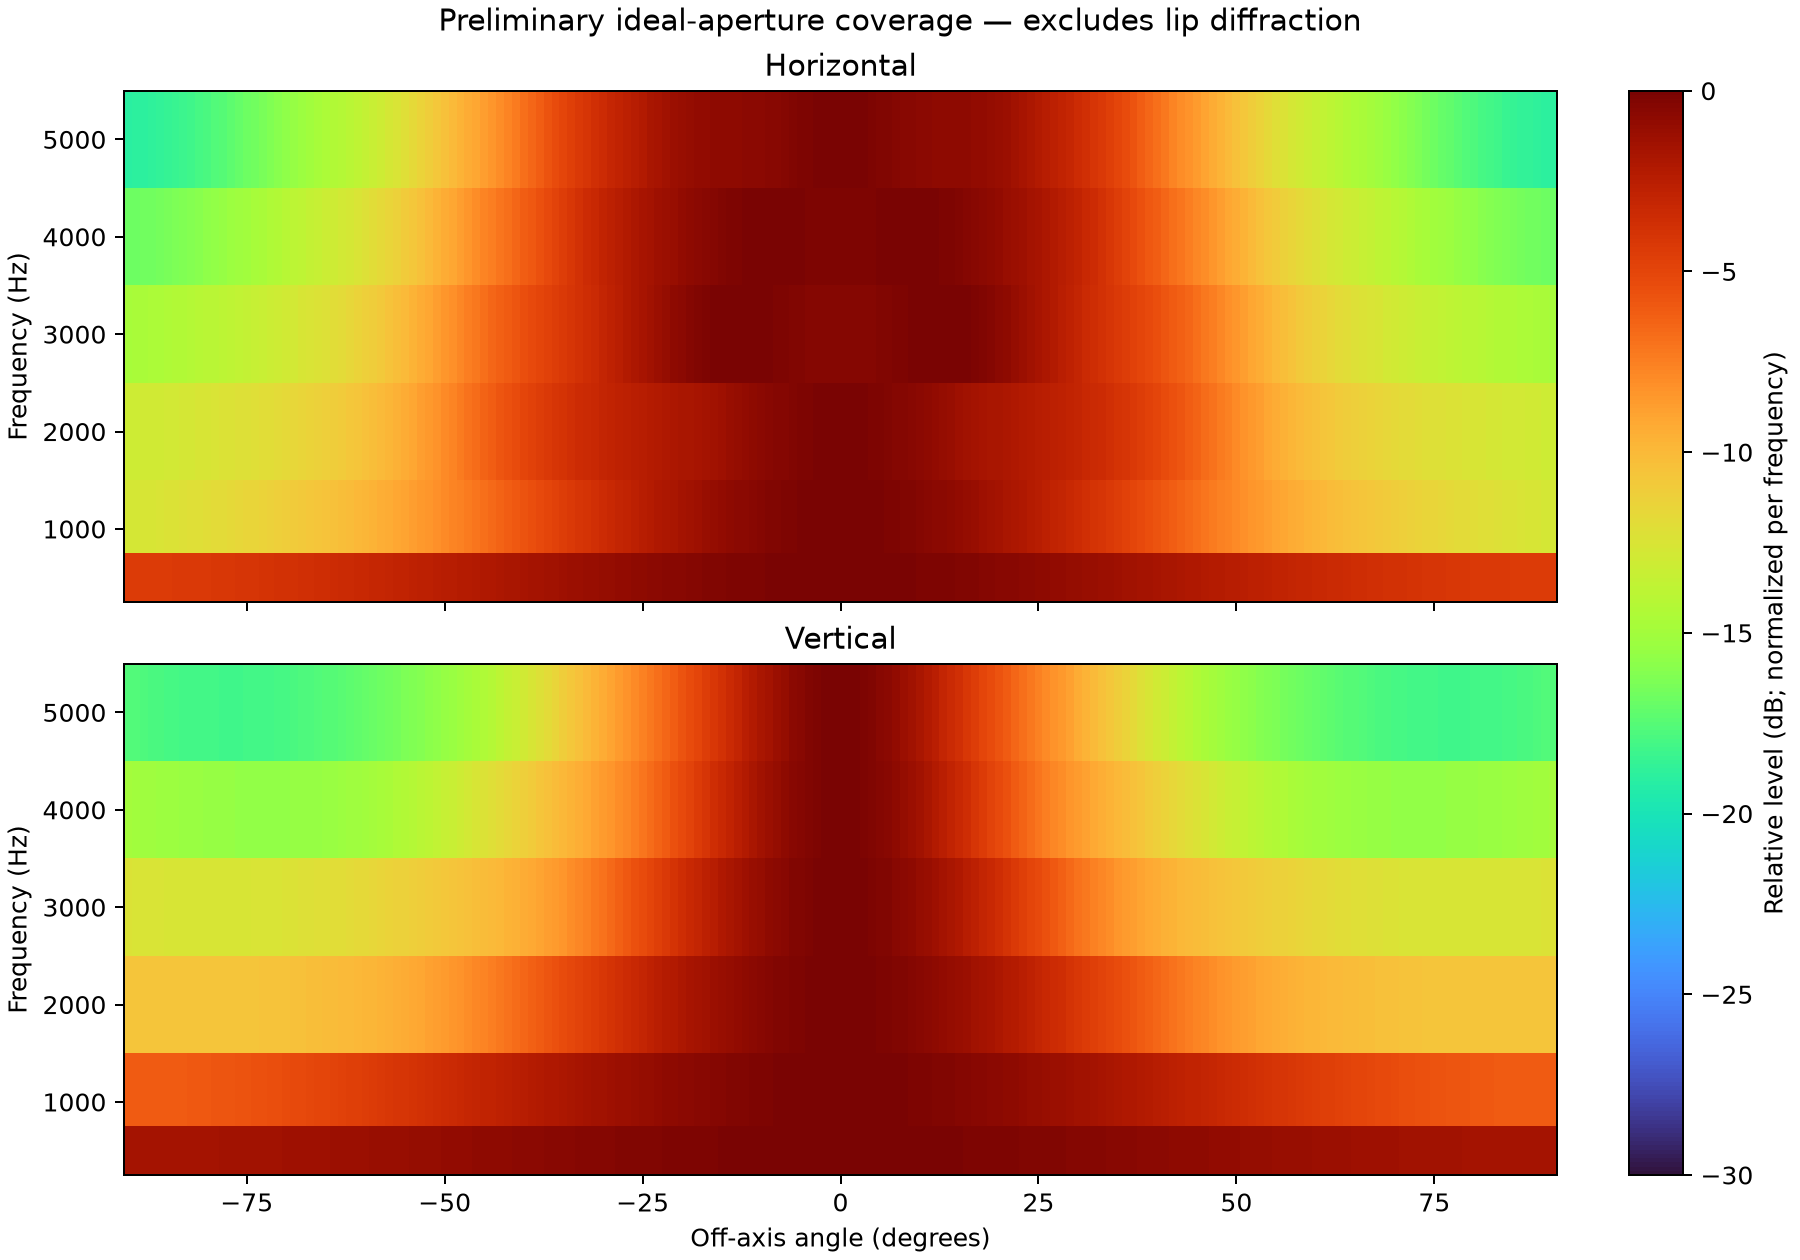
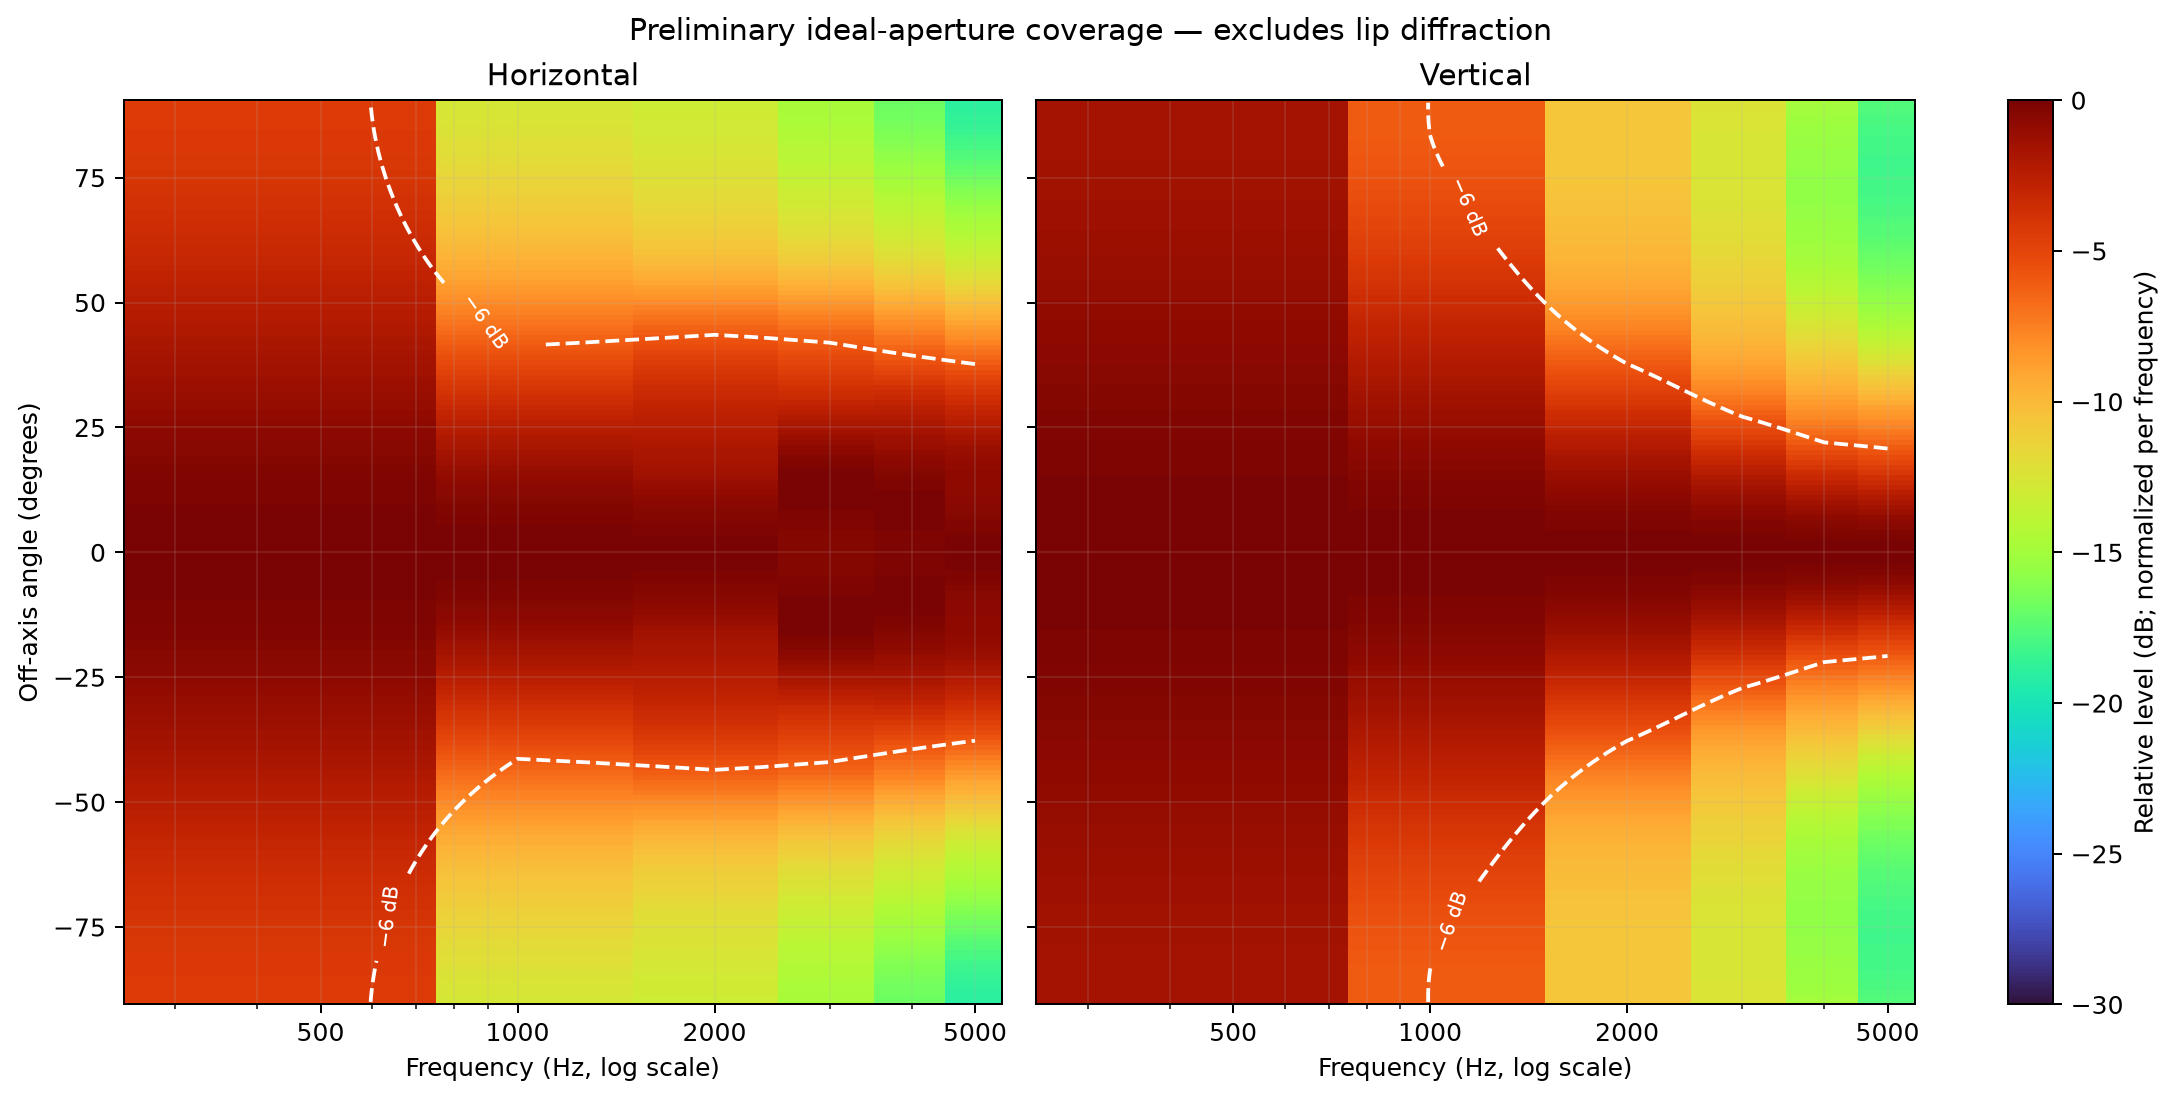
Use logarithmic frequency axes in acoustic plots

diff --git a/analysis/3d_poc/generate_review.py b/analysis/3d_poc/generate_review.py
@@ -4,6 +4,7 @@ from pathlib import Path
 import matplotlib
 matplotlib.use("Agg")
 import matplotlib.pyplot as plt
+from matplotlib.ticker import NullFormatter, ScalarFormatter
 from mpl_toolkits.mplot3d.art3d import Poly3DCollection
 import meshio
 import numpy as np
@@ -11,6 +12,13 @@ import numpy as np
 
 ROOT = Path(__file__).resolve().parent
 FIELD_ROOT = ROOT / "fields"
+
+
+def _set_log_frequency_axis(axis: plt.Axes) -> None:
+    axis.set_xscale("log")
+    axis.set_xticks([500, 1000, 2000, 5000])
+    axis.xaxis.set_major_formatter(ScalarFormatter())
+    axis.xaxis.set_minor_formatter(NullFormatter())
 
 
 def response_figure() -> None:
@@ -24,6 +32,7 @@ def response_figure() -> None:
     axes[1].set(xlabel="Frequency (Hz)", ylabel="GMRES iterations")
     axes[1].grid(True, alpha=0.3)
     axes[1].legend()
+    _set_log_frequency_axis(axes[1])
     figure.suptitle("Resolved 3D interior/aperture proof — not convergence certified")
     figure.tight_layout()
     figure.savefig(ROOT / "figures" / "resolved_sweep.png", dpi=180)
@@ -91,6 +100,7 @@ def impedance_figure(runs: list[tuple[float, np.ndarray, np.ndarray]]) -> None:
     phase_axis.set_ylabel("Phase (degrees)", color="tab:orange")
     for axis in axes:
         axis.grid(True, alpha=0.3)
+        _set_log_frequency_axis(axis)
     figure.suptitle("Acoustic throat input impedance for Q = 1 m³/s")
     figure.tight_layout()
     figure.savefig(ROOT / "figures" / "throat_impedance.png", dpi=180)
@@ -152,16 +162,22 @@ def coverage_figure(runs: list[tuple[float, np.ndarray, np.ndarray]]) -> None:
                             for frequency, mouth, _ in runs])
     vertical = np.vstack([_ideal_coverage(mouth, frequency, "vertical", angles)
                           for frequency, mouth, _ in runs])
-    figure, axes = plt.subplots(2, 1, figsize=(10, 7), sharex=True, constrained_layout=True)
+    figure, axes = plt.subplots(1, 2, figsize=(12, 6), sharey=True, constrained_layout=True)
     for axis, values, title in zip(axes, (horizontal, vertical),
                                    ("Horizontal", "Vertical")):
-        image = axis.pcolormesh(angles, frequencies, values, shading="nearest",
+        image = axis.pcolormesh(frequencies, angles, values.T, shading="nearest",
                                 vmin=-30, vmax=0, cmap="turbo")
-        axis.set(ylabel="Frequency (Hz)", title=title)
-    axes[-1].set_xlabel("Off-axis angle (degrees)")
+        contour = axis.contour(frequencies, angles, values.T, levels=[-6.0],
+                               colors="white", linewidths=1.5)
+        axis.clabel(contour, fmt={-6.0: "−6 dB"}, inline=True, fontsize=8)
+        _set_log_frequency_axis(axis)
+        axis.set(xlabel="Frequency (Hz, log scale)", title=title)
+        axis.grid(True, which="both", alpha=0.15)
+    axes[0].set_ylabel("Off-axis angle (degrees)")
     figure.colorbar(image, ax=axes, label="Relative level (dB; normalized per frequency)")
     figure.suptitle("Preliminary ideal-aperture coverage — excludes lip diffraction")
-    figure.savefig(ROOT / "figures" / "ideal_coverage_heatmaps.png", dpi=180)
+    figure.savefig(ROOT / "figures" / "ideal_coverage_heatmaps.png", dpi=180,
+                   bbox_inches="tight")
     plt.close(figure)
 
 

diff --git a/tests/bem_plan.md b/tests/bem_plan.md
@@ -205,6 +205,9 @@ problem, not against an unrelated generic Helmholtz benchmark.
   across the solved mouth field but explicitly excludes lip diffraction and
   exterior-body scattering; six frequency samples are too sparse for final
   resonance or coverage characterization.
+- Plotting convention: every frequency axis must be logarithmic (Bode-style).
+  Coverage heatmaps place log frequency on x, angle on y, and show a -6 dB
+  contour wherever the plotted quantity makes that threshold meaningful.
 
 Primary references used for the solver decision:
 

diff --git a/analysis/3d_poc/README.md b/analysis/3d_poc/README.md
@@ -56,6 +56,8 @@ interference across the nonuniform mouth field, but exclude finite-lip
 diffraction and exterior-body scattering. Because the computational mouth is
 curved while this remains an ideal-baffle approximation, these plots are
 preliminary comparison results—not the eventual full-exterior prediction.
+Frequency is plotted logarithmically on the x-axis, angle is on the y-axis, and
+the white contour marks the −6 dB coverage boundary.
 
 ## Current result
 
